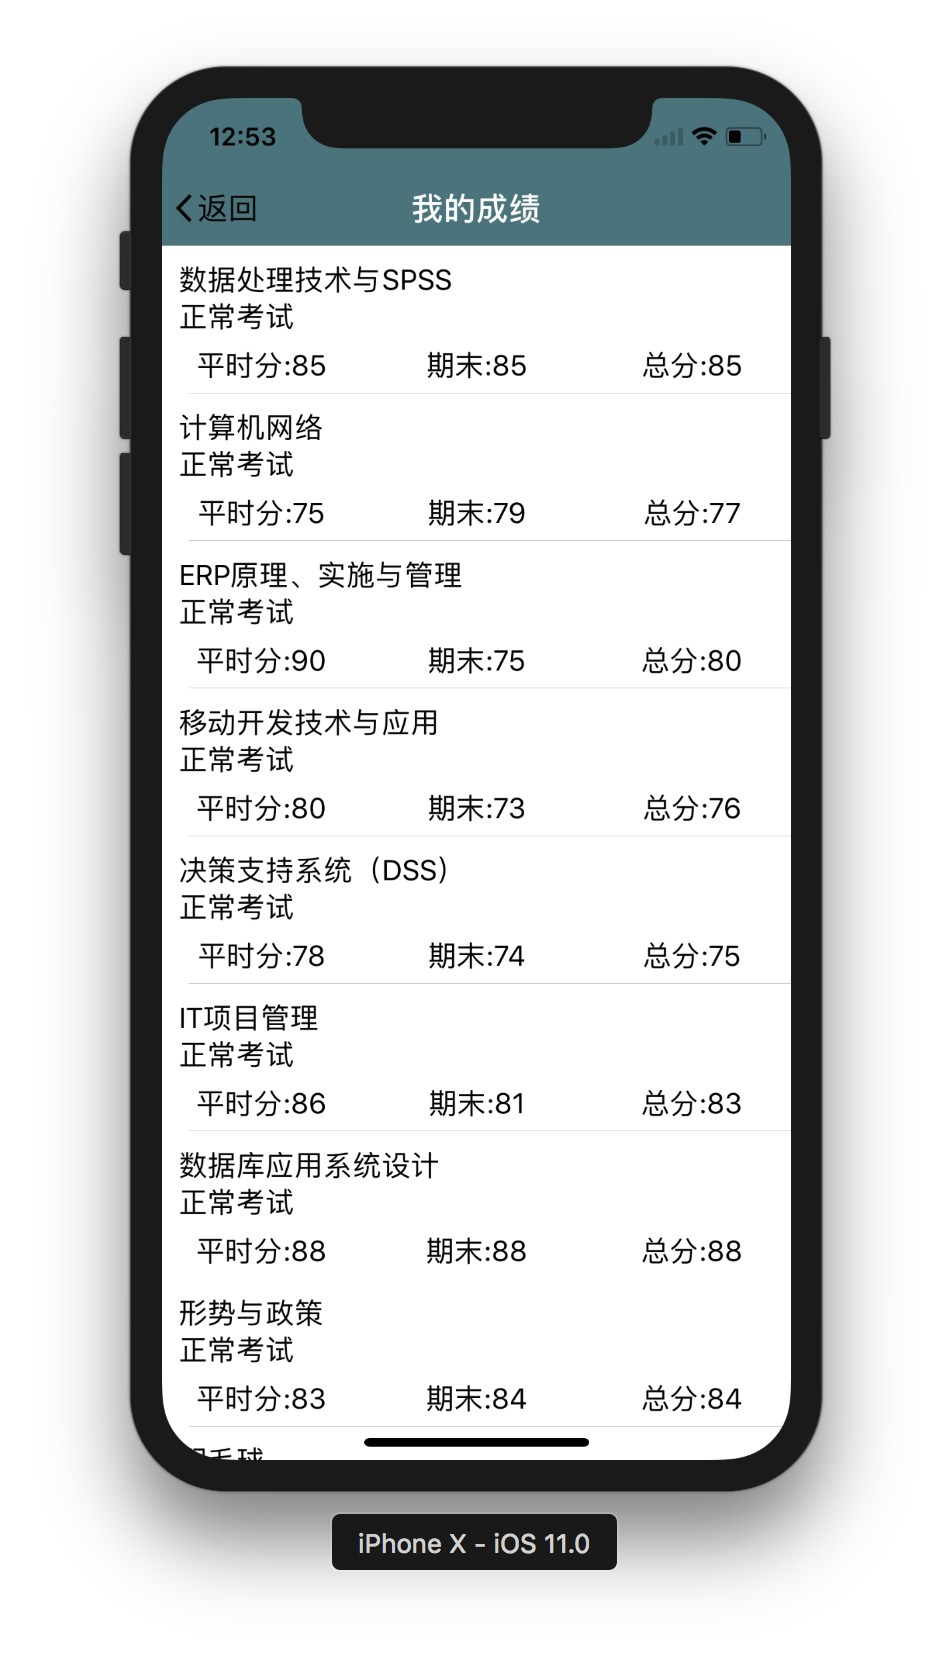
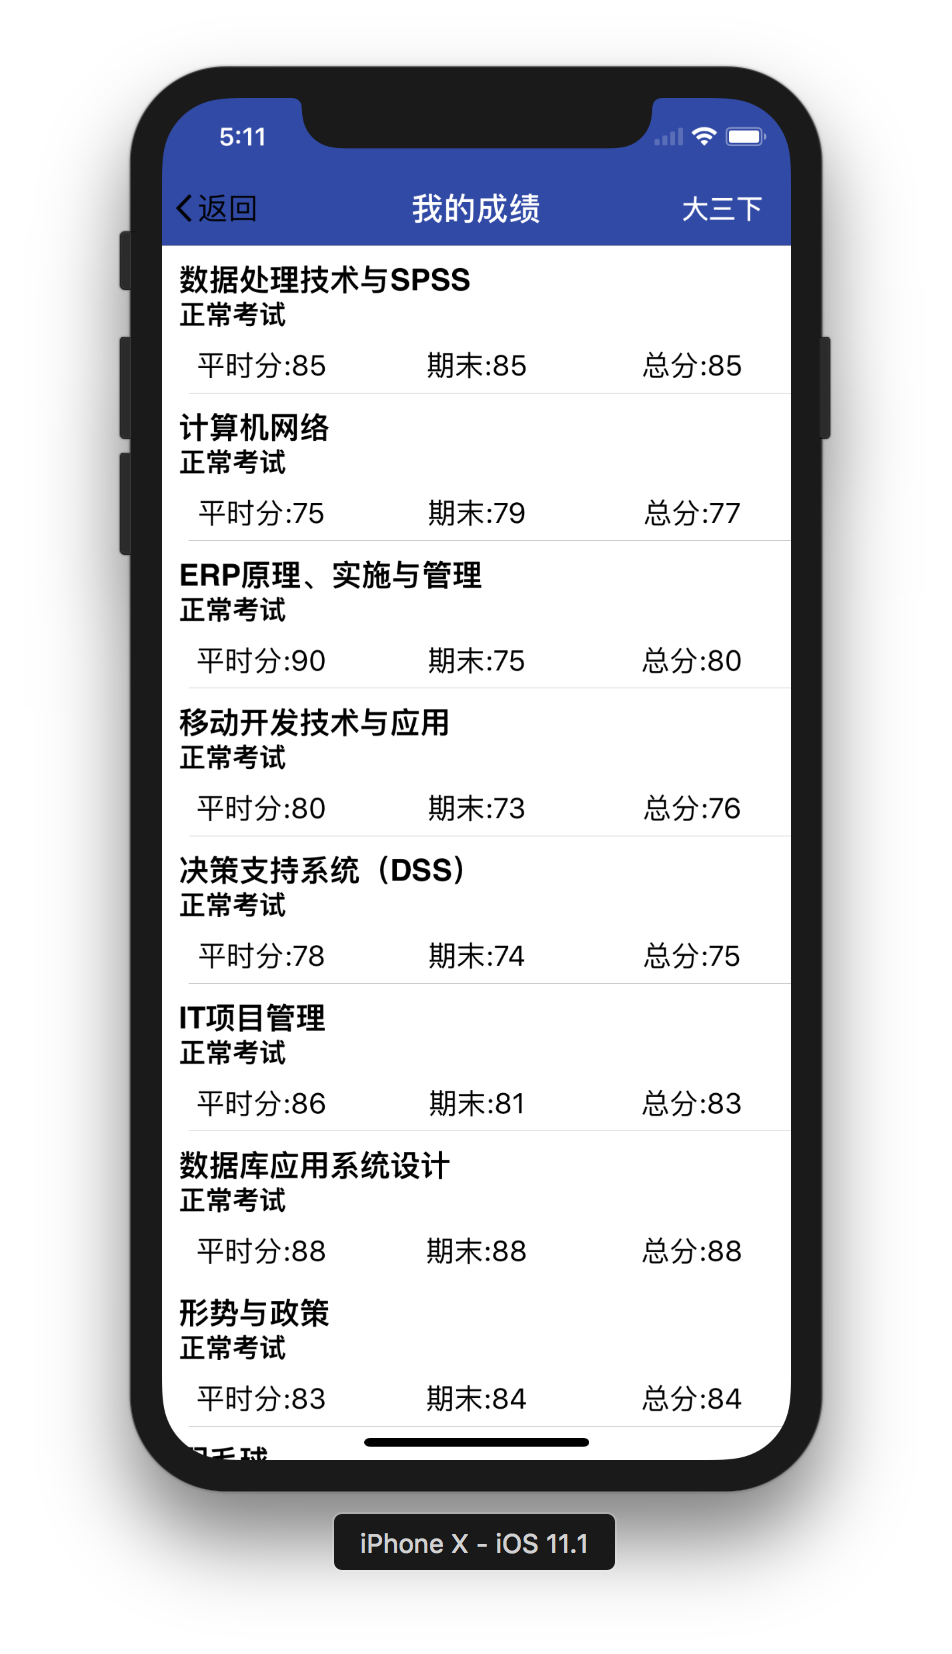
1.6.9

diff --git a/KWGdufe/Classes/Main/Control/KWNavigationViewController.m b/KWGdufe/Classes/Main/Control/KWNavigationViewController.m
@@ -41,6 +41,9 @@
     pan.delegate = self;
     //禁止之前的手势
     self.interactivePopGestureRecognizer.enabled = NO;
+    
+    self.navigationController.navigationBar.barStyle = UIBarStyleBlack;
+
 }
 
 - (void)pushViewController:(UIViewController *)viewController animated:(BOOL)animated
@@ -74,5 +77,10 @@
  UIPanGestureRecognizer：全屏滑动手势
  UIScreenEdgePanGestureRecognizer：导航条的手势：边缘滑动手势，继承与UIPanGestureRecognizer
  */
+
+//状态栏文字颜色  此方法直接添加在需要更改的控制器上即可,无需调用
+- (UIStatusBarStyle)preferredStatusBarStyle {
+    return UIStatusBarStyleLightContent;
+}
 
 @end

diff --git a/KWGdufe/AppDelegate.m b/KWGdufe/AppDelegate.m
@@ -26,6 +26,8 @@ static NSString *stuTime;
 
 - (BOOL)application:(UIApplication *)application didFinishLaunchingWithOptions:(NSDictionary *)launchOptions {
     // Override point for customization after application launch.
+//    [UIApplication sharedApplication].statusBarStyle = UIStatusBarStyleLightContent;
+
     self.window = [[UIWindow alloc]initWithFrame:[UIScreen mainScreen].bounds];
     
     //初始化stuTime

diff --git a/KWGdufe/Classes/MyClass/Control/KWMyClassViewController.m b/KWGdufe/Classes/MyClass/Control/KWMyClassViewController.m
@@ -47,6 +47,7 @@
 - (void)viewDidLoad {
     [super viewDidLoad];
     
+    [self preferredStatusBarStyle];
     //设置背景颜色
     self.view.backgroundColor = [UIColor whiteColor];
     

diff --git a/README.md b/README.md
@@ -77,8 +77,6 @@
 
 * 个人信息界面
 
-![image](https://github.com/KorwinBanana/KWGdufe/blob/master/READMEImage/%E5%B1%8F%E5%B9%95%E5%BF%AB%E7%85%A7%202017-10-30%20%E4%B8%8A%E5%8D%881.04.18.png)
-
 ![image](https://github.com/KorwinBanana/KWGdufe/blob/master/READMEImage/%E9%80%89%E6%8B%A9%E6%97%A5%E6%9C%9F.png)
 
 * 登陆（实现登陆功能（**使用Keychain存储账号密码**），界面待完善,添加密码错误警告提示,**使用AES给密码加密保存**）
